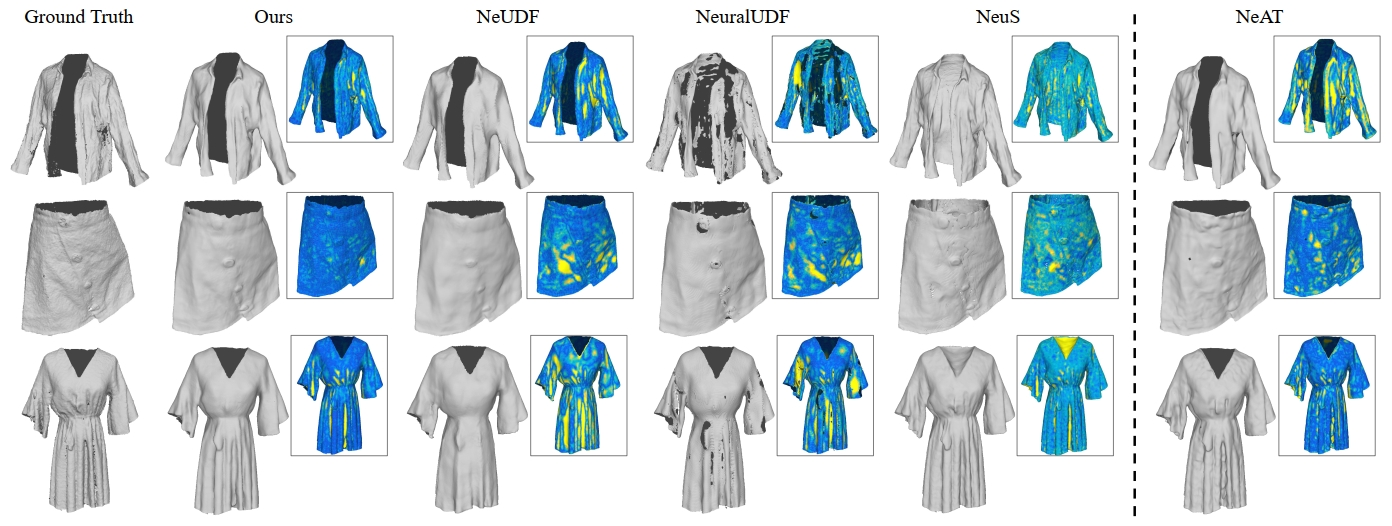
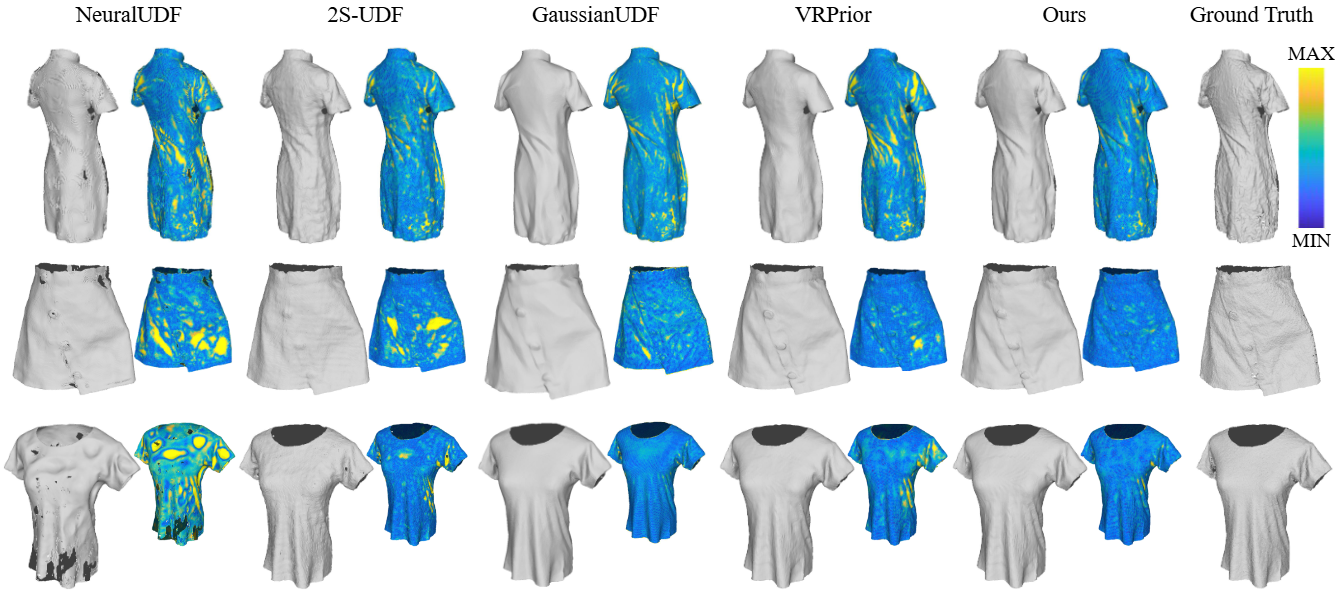
update tpami26

diff --git a/index.html b/index.html
@@ -88,29 +88,33 @@
     <div class="container is-max-desktop">
       <div class="columns is-centered">
         <div class="column has-text-centered">
-          <h1 class="title is-1 publication-title">Learning Unsigned Distance Functions from Multi-view Images with Volume Rendering Priors</h1>
+          <h1 class="title is-1 publication-title">VRP-UDF: Towards Unbiased Learning of Unsigned Distance Functions from Multi-view Images with Volume Rendering Priors</h1>
           <div class="column is-full_width">
-            <h2 class="title is-4">ECCV 2024</h2>
+            <h2 class="title is-4">TPAMI 2026 / ECCV 2024</h2>
           </div>
           <div class="is-size-5 publication-authors">
             <span class="author-block">
               <a href="https://wen-yuan-zhang.github.io/">Wenyuan Zhang</a><sup>1</sup>,
             </span>
             <span class="author-block">
-              Kanle Shi<sup>2</sup>,
+              <a href="">Chunsheng Wang</a><sup>2</sup>,
+            </span>
+            <span class="author-block">
+              <a href="">Kanle Shi</a><sup>3</sup>,
             </span>
             <span class="author-block">
               <a href="https://yushen-liu.github.io/">Yu-Shen Liu</a><sup>1</sup>,
             </span>
             <span class="author-block">
-              <a href="https://h312h.github.io/">Zhizhong Han</a><sup>3</sup>
+              <a href="https://h312h.github.io/">Zhizhong Han</a><sup>4</sup>
             </span>
           </div>
 
           <div class="is-size-5 publication-authors">
             <span class="author-block"><sup>1</sup>School of Software, Tsinghua University,</span>
-            <span class="author-block"><sup>2</sup>Kuaishou Technology</span>
-            <span class="author-block"><sup>3</sup>Wayne State University</span>
+            <span class="author-block"><sup>2</sup>China Telecom Wanwei Information Technology Co., Ltd.,</span>
+            <span class="author-block"><sup>3</sup>Kuaishou Technology,</span>
+            <span class="author-block"><sup>4</sup>Wayne State University</span>
           </div>
 
           <div class="column has-text-centered">
@@ -158,9 +162,31 @@
 
       </div>
     </div>
-    <!--/ Animation. -->
-
   </div>
+
+  <div class="container is-max-desktop">
+
+    <!-- Method. -->
+    <div class="columns is-centered has-text-centered">
+      <div class="column is-full-width">
+        <h2 class="title is-3" style="margin-top: -20px"></h2>
+
+        <video id="replay-video"
+           autoplay
+           controls
+           muted
+           preload
+           playsinline
+           loop
+           width="100%">
+          <source src="./resources/video_pami.mp4"
+              type="video/mp4">
+        </video>
+
+      </div>
+    </div>
+  </div>
+
 </section>
 
 <section class="section">
@@ -171,7 +197,7 @@
         <h2 class="title is-3" style="margin-top: -30px">Abstract</h2>
         <div class="content has-text-justified">
           <p>
-            Unsigned distance functions (UDFs) have been a vital representation for open surfaces. With different differentiable renderers, current methods are able to train neural networks to infer a UDF by minimizing the rendering errors on the UDF to the multi-view ground truth. However, these differentiable renderers are mainly handcrafted, which makes them either biased on ray-surface intersections, or sensitive to unsigned distance outliers, or not scalable to large scale scenes. To resolve these issues, we present a novel differentiable renderer to infer UDFs more accurately. Instead of using handcrafted equations, our differentiable renderer is a neural network which is pre-trained in a data-driven manner. It learns how to render unsigned distances into depth images, leading to a prior knowledge, dubbed volume rendering priors. To infer a UDF for an unseen scene from multiple RGB images, we generalize the learned volume rendering priors to map inferred unsigned distances in alpha blending for RGB image rendering. Our results show that the learned volume rendering priors are unbiased, robust, scalable, 3D aware, and more importantly, easy to learn. We evaluate our method on both widely used benchmarks and real scenes, and report superior performance over the state-of-the-art methods.
+            Unsigned distance functions (UDFs) have been a vital representation for open surfaces. With different differentiable renderers, current methods are able to train neural networks to infer a UDF by minimizing the rendering errors with the UDF to the multi-view ground truth. However, these differentiable renderers are mainly handcrafted, which makes them either biased on ray-surface intersections, or sensitive to unsigned distance outliers, or not scalable to large scenes. To resolve these issues, we present a novel differentiable renderer to infer UDFs more accurately. Instead of using handcrafted equations, our differentiable renderer is a neural network which is pre-trained in a data-driven manner. It learns how to render unsigned distances into depth images, leading to a prior knowledge, dubbed volume rendering priors. To infer a UDF for an unseen scene from multiple RGB images, we generalize the learned volume rendering priors to map inferred unsigned distances in alpha blending for RGB image rendering. To reduce the bias of sampling in UDF inference, we utilize an auxiliary point sampling prior as an indicator of ray-surface intersection, and propose novel schemes towards more accurate and uniform sampling near the zero-level sets. We also propose a new strategy  that leverages our pretrained volume rendering prior to serve as a general surface refiner, which can be integrated with various Gaussian reconstruction methods to optimize the Gaussian distributions and refine geometric details. Our results show that the learned volume rendering prior is unbiased, robust, scalable, 3D aware, and more importantly, easy to learn. Further experiments show that the volume rendering prior is also a general strategy to enhance other neural implicit representations such as signed distance function and occupancy. We evaluate our method on both widely used benchmarks and real scenes, and report superior performance over the state-of-the-art methods. 
           </p>
         </div>
       </div>
@@ -198,6 +224,7 @@
             Our prior can be learned in a data-driven manner, which provides a novel perspective to recover geometry with prior knowledge through volume rendering.
             (2) propose a novel deep neural network and learning scheme, 
             and report extensive analysis to learn an unbiased differentiable renderer for UDFs with robustness, scalability, and 3D awareness.
+            (3) extend the learned VRP to various neural representations and Gaussian Splatting-based surface reconstruction to validate its generalization ability for downstream applications.
           </p>
           <p style="margin-top: 30px">
             Here is an overview of our method. 
@@ -227,8 +254,7 @@
         <div class="content has-text-justified">
           <img src="./resources/deepfashion3d.png" class="center">
           <p>
-            Visual comparisons on open surface reconstructions with error maps on DeepFashion3D dataset. Note that NeAT uses additional mask supervision. 
-            The transition from blue to yellow indicates small to large reconstruction errors.
+            Visual comparisons on open surface reconstructions with error maps on DeepFashion3D dataset. The transition from blue to yellow indicates small to large reconstruction errors.
           </p>
         </div>
 
@@ -242,13 +268,15 @@
           <img src="./resources/replica.png" class="center">
         </div>
 
+        <h3 class="title is-4">Comparison on Insects Dataset</h3>
+        <div class="content has-text-justified">
+          <img src="./resources/insects.png" class="center">
+        </div>
+
         <h3 class="title is-4">Comparison on Real-Captured Datasets</h3>
         <div class="content has-text-justified">
           <img src="./resources/real-captured.png" class="center">
-          <p>
-            Comparison on Real-Captured Datasets. (a) is the visualization of our real-captured scenes. The first one is a paper-folding greeting card, and the second one is a plant.
-            (b) is the visualization of the real scans used in NeUDF. The right-top and right-bottom part of each image are enlarged details and rendering views, respectively. 
-          </p>
+          <img src="./resources/real-captured2.png" class="center">
         </div>
           
         
@@ -273,19 +301,7 @@
           </video>
         </div>
 
-        <div class="content has-text-centered">
-          <video id="replay-video"
-                 autoplay
-                 controls
-                 muted
-                 preload
-                 playsinline
-                 loop
-                 width="100%">
-            <source src="./resources/video_pami.mp4"
-                    type="video/mp4">
-          </video>
-        </div>
+        
         
 
       </div>
@@ -300,6 +316,14 @@
 <section class="section" id="BibTeX">
   <div class="container is-max-desktop content">
     <h2 class="title">BibTeX</h2>
+    <pre><code>@article{zhang2026vrpudf,
+      title={{VRP-UDF}: Towards Unbiased Learning of Unsigned Distance Functions from Multi-view Images with Volume Rendering Priors},
+      author={Zhang, Wenyuan and Wang, Chunsheng and Shi, Kanle and Liu, Yu-Shen and Han, Zhizhong},
+      journal={IEEE Transactions on Pattern Analysis and Machine Intelligence},
+      year={2026},
+      publisher={IEEE}
+    }
+</code></pre>
      <pre><code>@inproceedings{zhang2024learning,
       title={Learning unsigned distance functions from multi-view images with volume rendering priors},
       author={Zhang, Wenyuan and Shi, Kanle and Liu, Yu-Shen and Han, Zhizhong},
